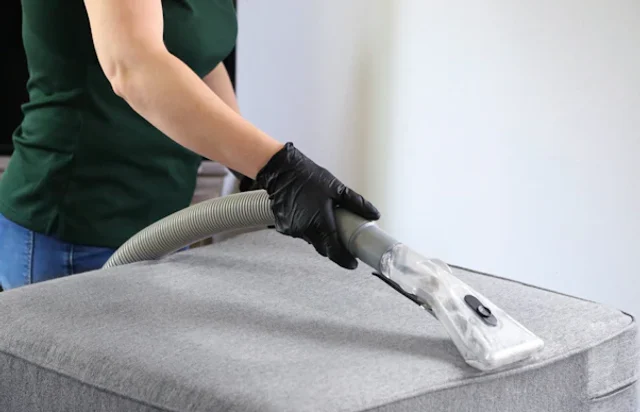
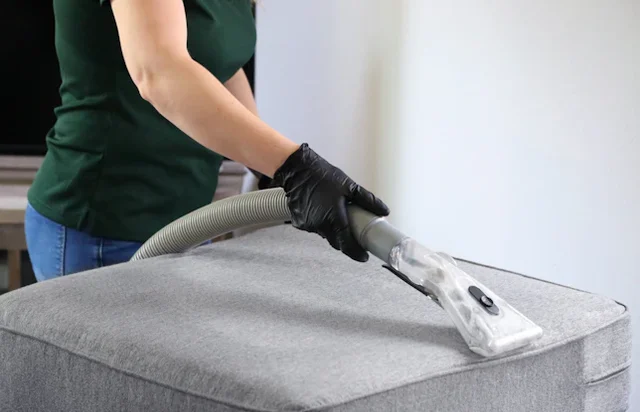
Give every filled photo a size of its own
An Image positioned only by insets draws at its own pixel size, so each frame
showed one magnified corner of its photo: the service tiles showed a plant on
a shelf and a patch of teal, and the home banner was a grey smear. Stating the
width and height makes the photo fill the frame it was cropped for.

The carpet tile is re-cropped onto the sofa being cleaned, which the old
framing cut away.

Changed region(s): [[0.0, 0.0, 1.0, 1.0], [0.5312, 0.1456, 0.5938, 0.233]]

diff --git a/apps/customer-app/app/(tabs)/home.tsx b/apps/customer-app/app/(tabs)/home.tsx
@@ -63,7 +63,7 @@ function BannerShell({ image, onPress, children }: { image: any; onPress: () => 
   const rtl = I18nManager.isRTL
   return (
     <TouchableOpacity activeOpacity={0.9} onPress={onPress} style={cr.banner} accessibilityRole="button">
-      <Image source={image} style={StyleSheet.absoluteFill} resizeMode="cover" />
+      <Image source={image} style={s.tileImg} resizeMode="cover" />
       {/* Dark on the text (start) side, clear on the photo side. */}
       <LinearGradient
         colors={['rgba(7,22,46,0.94)', 'rgba(7,22,46,0.72)', 'rgba(7,22,46,0.05)']}
@@ -575,7 +575,7 @@ export default function HomeScreen() {
               onPress={() => router.push({ pathname: '/(tabs)/new-order', params: { service: svc.key } })}
               style={s.tile}
             >
-              <Image source={SERVICE_IMAGES[svc.key]} style={StyleSheet.absoluteFill} resizeMode="cover" />
+              <Image source={SERVICE_IMAGES[svc.key]} style={s.tileImg} resizeMode="cover" />
               <LinearGradient colors={['rgba(5,12,26,0)', 'rgba(5,12,26,0.82)']} locations={[0.38, 1]} style={StyleSheet.absoluteFill} />
               <View style={s.tileArrow}>{I18nManager.isRTL ? <ArrowUpLeft size={13} color="#fff" /> : <ArrowUpRight size={13} color="#fff" />}</View>
               <View style={s.tileText}>
@@ -593,7 +593,7 @@ export default function HomeScreen() {
           onPress={() => router.push({ pathname: '/(tabs)/new-order', params: { service: 'accessories' } })}
           style={[s.tile, s.tileWide]}
         >
-          <Image source={require('../../assets/services/shop-wide.webp')} style={StyleSheet.absoluteFill} resizeMode="cover" />
+          <Image source={require('../../assets/services/shop-wide.webp')} style={s.tileImg} resizeMode="cover" />
           <LinearGradient colors={['rgba(5,12,26,0)', 'rgba(5,12,26,0.82)']} locations={[0.32, 1]} style={StyleSheet.absoluteFill} />
           <View style={s.tileArrow}>{I18nManager.isRTL ? <ArrowUpLeft size={13} color="#fff" /> : <ArrowUpRight size={13} color="#fff" />}</View>
           <View style={s.tileText}>
@@ -703,6 +703,9 @@ const s = StyleSheet.create({
 
   tiles: { flexDirection: 'row', flexWrap: 'wrap', gap: 10 },
   tile: { height: 116, borderRadius: 18, overflow: 'hidden', backgroundColor: '#0F1A2E' },
+  // Sized explicitly: left to itself the photo rendered at its own pixel size and the
+  // tile showed one magnified corner of it.
+  tileImg: { position: 'absolute', top: 0, left: 0, width: '100%', height: '100%' },
   tileWide: { width: '100%', height: 124 },
   tileArrow: { position: 'absolute', top: 8, end: 8, width: 26, height: 26, borderRadius: 13, alignItems: 'center', justifyContent: 'center', backgroundColor: 'rgba(255,255,255,0.18)', borderWidth: 1, borderColor: 'rgba(255,255,255,0.3)' },
   tileText: { position: 'absolute', start: 11, end: 11, bottom: 9 },

diff --git a/apps/customer-app/src/components/WelcomeGiftPopup.tsx b/apps/customer-app/src/components/WelcomeGiftPopup.tsx
@@ -92,7 +92,7 @@ export default function WelcomeGiftPopup({ userId, onOrderNow }: Props) {
         <Animated.View style={[s.card, { backgroundColor: b.card, borderColor: b.cardBorder, transform: [{ scale: scaleAnim }] }]}>
           {/* Gift photo with confetti */}
           <View style={s.hero}>
-            <Image source={require('../../assets/auth/gift.webp')} style={StyleSheet.absoluteFill} resizeMode="cover" />
+            <Image source={require('../../assets/auth/gift.webp')} style={fillImage} resizeMode="cover" />
             <LinearGradient colors={['rgba(0,0,0,0)', b.card]} locations={[0.55, 1]} style={StyleSheet.absoluteFill} />
             <View pointerEvents="none" style={[StyleSheet.absoluteFill, { direction: 'ltr' }]}>
               {CONFETTI.map((c, i) => (
@@ -183,3 +183,6 @@ const s = StyleSheet.create({
   freeTag: { fontSize: 11.5, fontFamily: F.bold },
   terms: { fontSize: 11, fontFamily: F.regular, marginTop: 10 },
 })
+
+// See home.tsx: an Image sized only by insets renders at its own pixel size.
+const fillImage = { position: 'absolute' as const, top: 0, left: 0, width: '100%' as const, height: '100%' as const }

diff --git a/apps/customer-app/app/bag-order.tsx b/apps/customer-app/app/bag-order.tsx
@@ -194,7 +194,7 @@ export default function BagOrderScreen() {
 
         {/* Offer hero: same look as the home banner */}
         <Animated.View entering={FadeInDown.duration(500)} style={s.hero}>
-          <Image source={require('../assets/banners/bag.webp')} style={StyleSheet.absoluteFill} resizeMode="cover" />
+          <Image source={require('../assets/banners/bag.webp')} style={fillImage} resizeMode="cover" />
           <LinearGradient
             colors={['rgba(7,22,46,0.95)', 'rgba(7,22,46,0.75)', 'rgba(7,22,46,0.1)']}
             locations={[0, 0.5, 1]}
@@ -430,3 +430,7 @@ const s = StyleSheet.create({
   totalVal: { fontSize: 21, fontFamily: F.display },
   totalCur: { fontSize: 11, fontFamily: F.semibold },
 })
+
+// An Image needs its size stated: with insets alone it draws at its own pixel size and
+// the frame shows a magnified corner of the photo.
+const fillImage = { position: 'absolute' as const, top: 0, left: 0, width: '100%' as const, height: '100%' as const }
